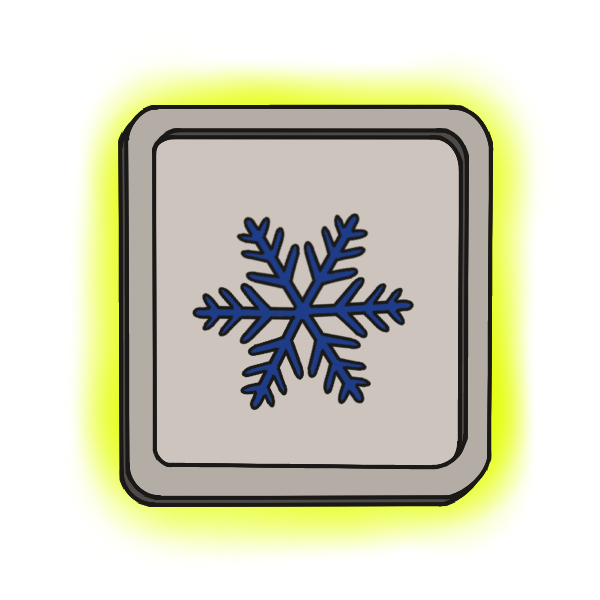
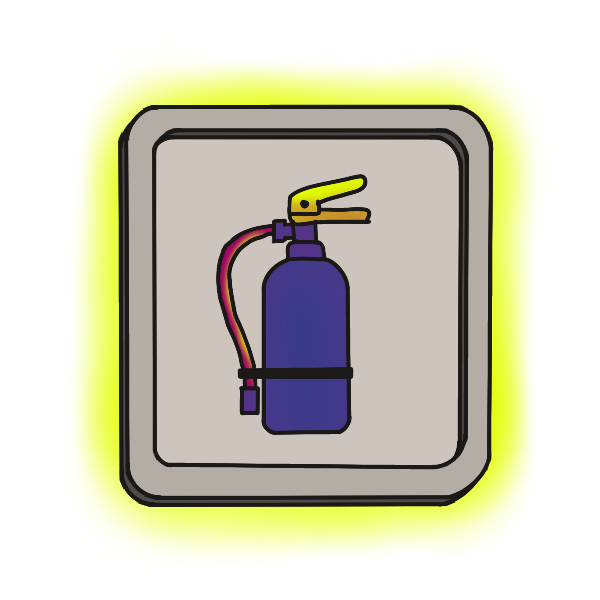
bernie 2020

Changed region(s): [[0.3, 0.27, 0.69, 0.75]]

diff --git a/core/src/com/pungo/repairgame/gamescreen/SimpleDevice.kt b/core/src/com/pungo/repairgame/gamescreen/SimpleDevice.kt
@@ -12,6 +12,7 @@ class SimpleDevice(private val path: String, private val ratio: Float) {
     private lateinit var brokenSprite: Sprite
     private lateinit var hotSprite: Sprite
     private lateinit var stuckSprite: Sprite
+    private lateinit var izelSprite: Sprite
     private lateinit var chosenSprite: Sprite
     private var centreX = 0f
     private var centreY = 0f
@@ -30,6 +31,7 @@ class SimpleDevice(private val path: String, private val ratio: Float) {
         brokenSprite = loadSprite("$path/broken.png", ratio.toDouble())
         hotSprite = loadSprite("$path/hot.png", ratio.toDouble())
         stuckSprite = loadSprite("$path/stuck.png", ratio.toDouble())
+        izelSprite = loadSprite("$path/izel.png", ratio.toDouble())
         chosenSprite = normalSprite
     }
 
@@ -45,6 +47,7 @@ class SimpleDevice(private val path: String, private val ratio: Float) {
         hotSprite.setCenter(centreX,centreY)
         brokenSprite.setCenter(centreX,centreY)
         stuckSprite.setCenter(centreX,centreY)
+        izelSprite.setCenter(centreX,centreY)
     }
 
     fun draw(batch: SpriteBatch){
@@ -58,6 +61,7 @@ class SimpleDevice(private val path: String, private val ratio: Float) {
             DeviceStatus.HOT -> hotSprite.draw(batch)
             DeviceStatus.BROKEN -> brokenSprite.draw(batch)
             DeviceStatus.STUCK -> stuckSprite.draw(batch)
+            DeviceStatus.SHORT -> izelSprite.draw(batch)
             else -> {}
         }
     }

diff --git a/core/src/com/pungo/repairgame/gamescreen/GameScreen.kt b/core/src/com/pungo/repairgame/gamescreen/GameScreen.kt
@@ -74,7 +74,11 @@ class GameScreen: Screen() {
                 it.flying = false
                 devices.forEach { it2 ->
                     if (SharedVariables.contains(Gdx.input.x.toFloat(), Gdx.input.y.toFloat(), it2.getSprite())) {
-                        if ((it2.status == DeviceStatus.HOT) && (index == 1)) {
+                        if ((it2.status == DeviceStatus.SHORT) && (index == 0)) {
+                            it.sfx.play()
+                            it2.status = DeviceStatus.NORMAL
+                        }
+                        else if ((it2.status == DeviceStatus.HOT) && (index == 1)) {
                             it.sfx.play()
                             it2.status = DeviceStatus.NORMAL
                         }
@@ -155,6 +159,7 @@ class GameScreen: Screen() {
             device.status = when (breakingList.random()) {
                 0 -> DeviceStatus.BROKEN
                 1 -> DeviceStatus.STUCK
+                2 -> DeviceStatus.SHORT
                 else -> DeviceStatus.HOT
             }
         }

diff --git a/core/src/com/pungo/repairgame/gamescreen/DeviceStatus.kt b/core/src/com/pungo/repairgame/gamescreen/DeviceStatus.kt
@@ -5,5 +5,6 @@ enum class DeviceStatus {
     BROKEN,
     HOT,
     STUCK,
+    SHORT,
     DEAD
 }
